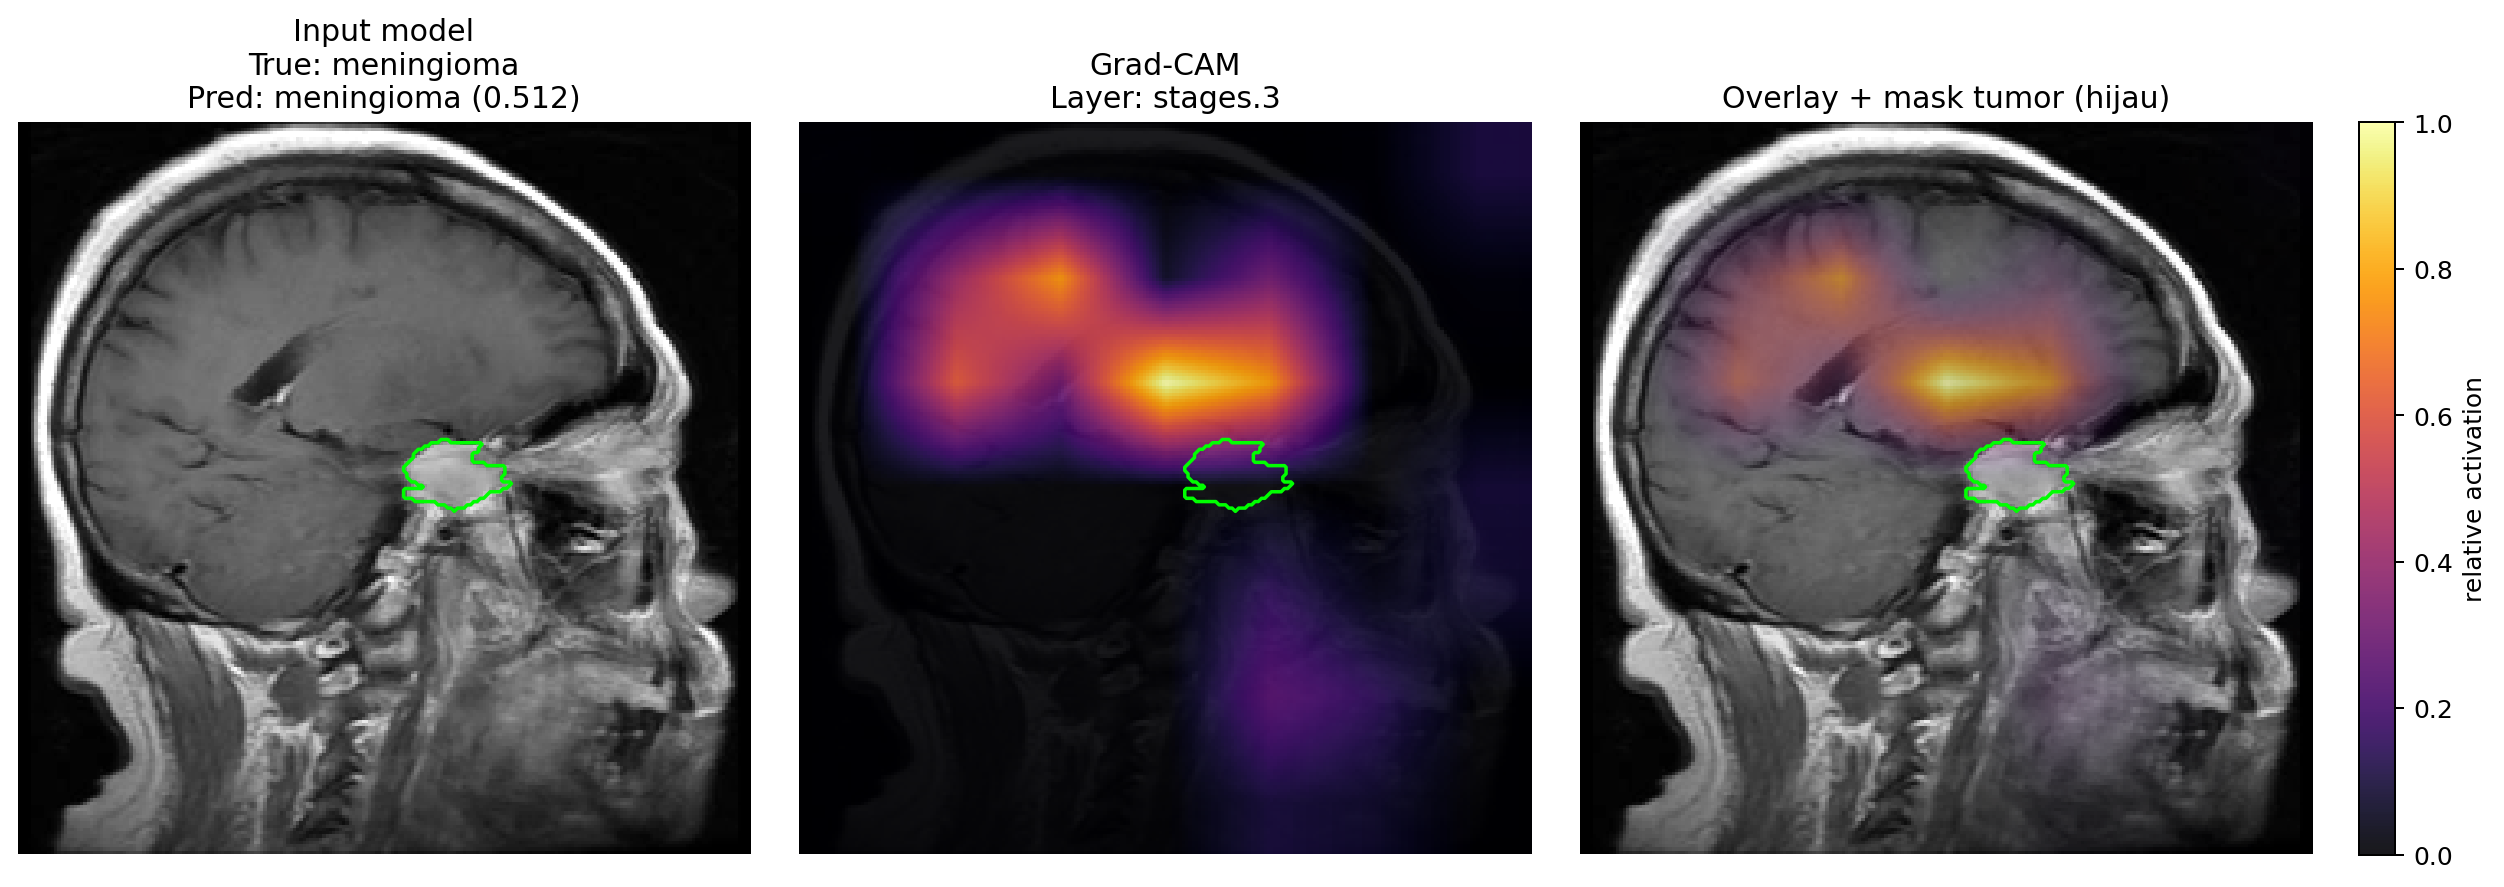
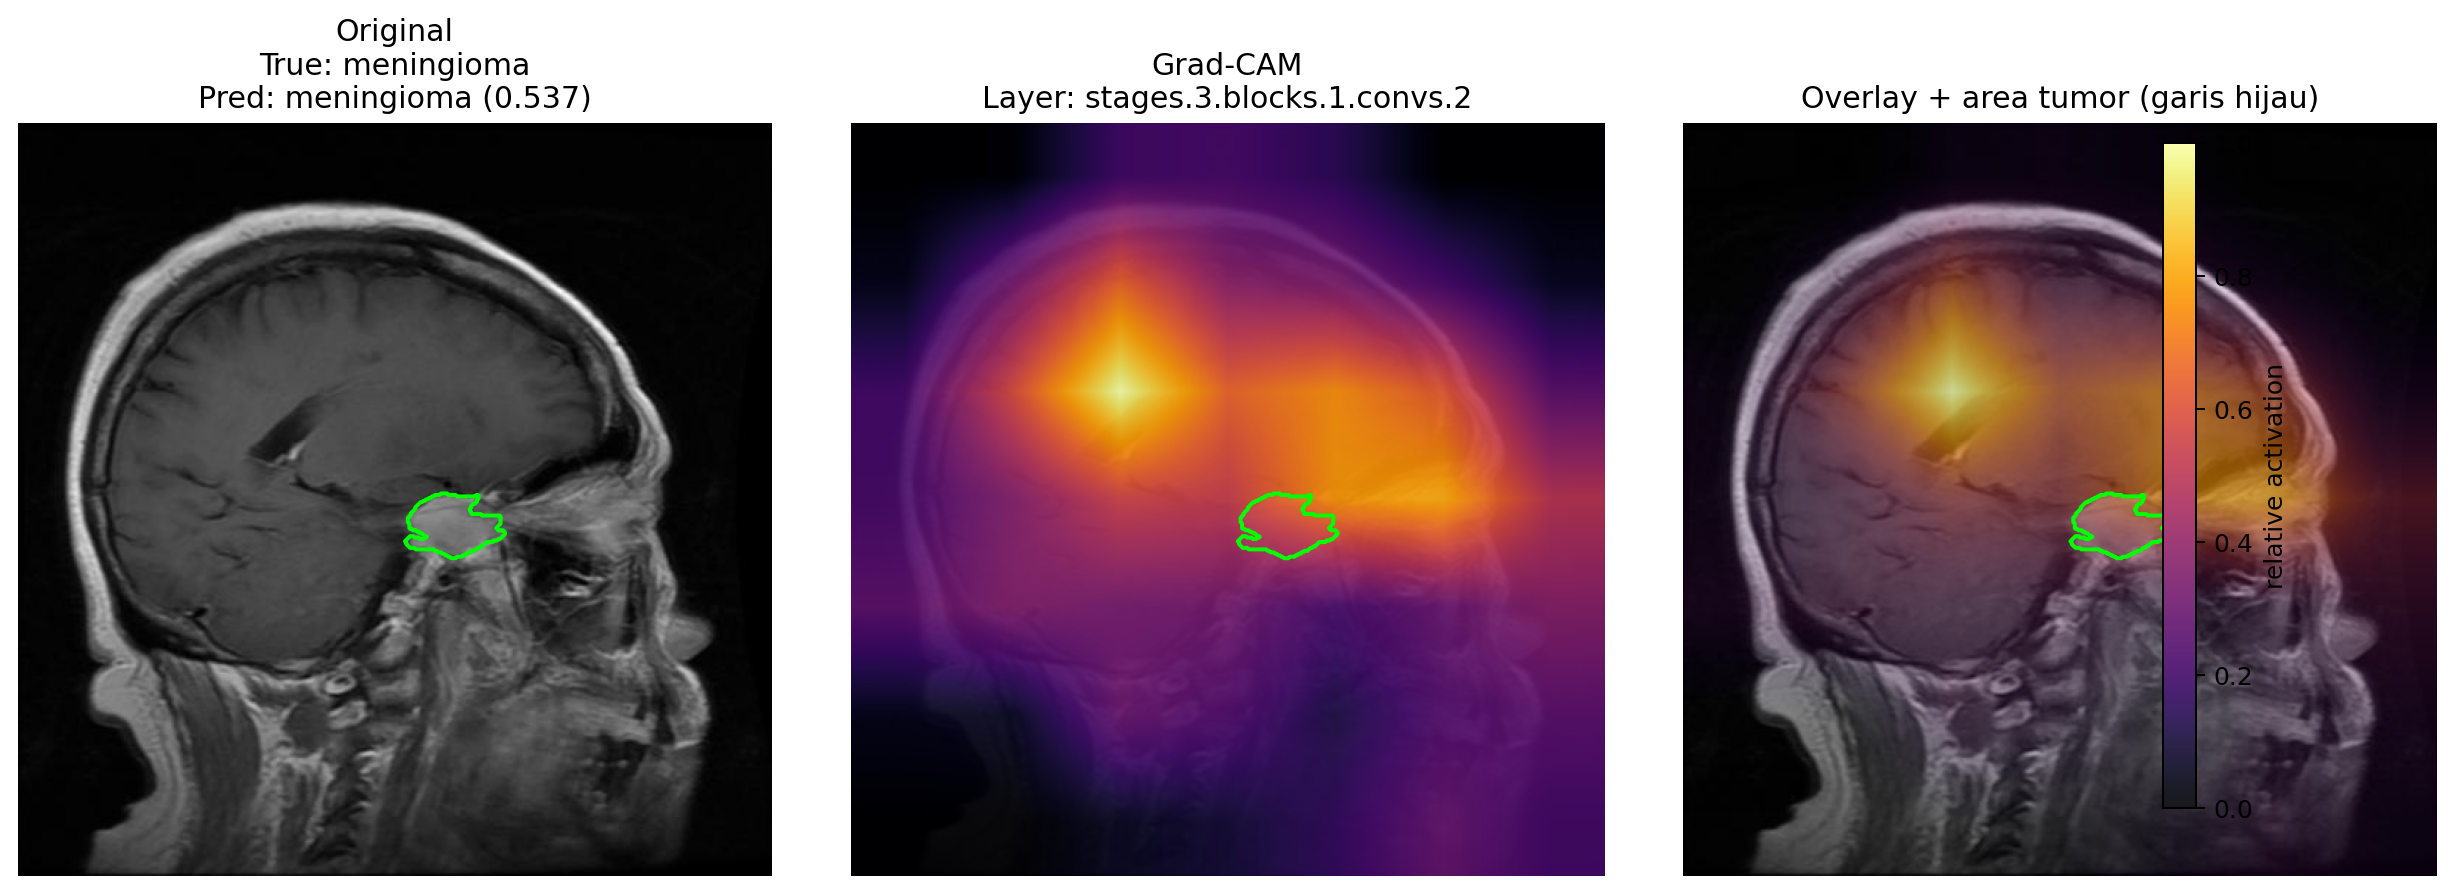
Grad-CAM TTA memakai versi asli + garis hijau tumor, tambah figur preprocessing
- scripts/gradcam_asli_garis_hijau.py: Grad-CAM identik dengan
  per_class_evaluation (sampel, layer, checkpoint 20261104_195431), ditambah
  kontur hijau dari mask segmentasi BRISC.
- results/per_class_evaluation_tta/gradcam diganti; versi Grad-CAM lama
  dipindah ke gradcam_versi_model_view.
- scripts/visualisasi_preprocessing.py: alur preprocessing 4 kelas sampai
  input training, hasil di results/preprocessing.

diff --git a/Code Program/scripts/gradcam_asli_garis_hijau.py b/Code Program/scripts/gradcam_asli_garis_hijau.py
@@ -1,0 +1,123 @@
+"""Grad-CAM asli (sama seperti results/per_class_evaluation) + garis hijau area tumor.
+
+Tidak mengubah cara Grad-CAM dihitung: sampel, layer (Conv2d terakhir), ukuran
+heatmap, dan judul panel sama dengan results/per_class_evaluation/gradcam.
+Satu-satunya tambahan adalah kontur hijau dari mask segmentasi BRISC.
+
+Jalankan (dari folder Code Program):
+  python scripts/gradcam_asli_garis_hijau.py
+"""
+from __future__ import annotations
+
+import argparse
+import sys
+from pathlib import Path
+
+import matplotlib
+
+matplotlib.use("Agg")
+import matplotlib.pyplot as plt
+import numpy as np
+import pandas as pd
+import torch
+import torch.nn as nn
+from PIL import Image
+
+ROOT = Path(__file__).resolve().parents[1]
+sys.path.insert(0, str(ROOT))
+import evaluate_per_class as epc  # noqa: E402
+
+
+def gradcam_original(model, original, transform, device):
+    """Persis seperti evaluate_per_class versi awal: Conv2d terakhir, CAM di-resize ke citra asli."""
+    layers = [(n, m) for n, m in model.named_modules() if isinstance(m, nn.Conv2d)]
+    layer_name, target = layers[-1]
+    acts, grads = {}, {}
+    fh = target.register_forward_hook(lambda m, i, o: acts.__setitem__("v", o))
+    bh = target.register_full_backward_hook(
+        lambda m, gi, go: grads.__setitem__("v", go[0] if not isinstance(go, torch.Tensor) else go)
+    )
+    try:
+        tensor = transform(original).unsqueeze(0).to(device)
+        model.eval()
+        model.zero_grad(set_to_none=True)
+        with torch.enable_grad():
+            logits = model(tensor)
+            pred = int(torch.softmax(logits, dim=1)[0].argmax())
+            logits[0, pred].backward()
+        a, g = acts["v"][0].detach(), grads["v"][0].detach()
+        cam = torch.relu((g.mean(dim=(1, 2), keepdim=True) * a).sum(dim=0, keepdim=True))[None]
+        cam = torch.nn.functional.interpolate(
+            cam, size=(original.height, original.width), mode="bilinear", align_corners=False
+        )[0, 0].cpu().numpy()
+        cam -= cam.min()
+        if cam.max() > 0:
+            cam /= cam.max()
+        return cam, layer_name
+    finally:
+        fh.remove()
+        bh.remove()
+        model.zero_grad(set_to_none=True)
+
+
+def main() -> None:
+    ap = argparse.ArgumentParser()
+    ap.add_argument("--index", type=Path, default=ROOT / "results/per_class_evaluation/gradcam/gradcam_index.csv")
+    # Checkpoint yang dipakai results/per_class_evaluation (jangan diganti agar heatmap identik)
+    ap.add_argument("--checkpoint", type=Path,
+                    default=ROOT / "hasil_edgenext/20261104_195431/01_baseline/best_model.pt")
+    ap.add_argument("--output-dir", type=Path, default=ROOT / "results/per_class_evaluation_tta/gradcam")
+    ap.add_argument("--mask-dir", type=Path,
+                    default=ROOT / "brisc2025-v6/brisc2025/segmentation_task/test/masks")
+    args = ap.parse_args()
+
+    ckpt = args.checkpoint.resolve()
+    device = torch.device("cuda" if torch.cuda.is_available() else "cpu")
+    model, config, _classes, _info = epc.load_checkpoint(ckpt, device)
+    transform = epc.make_eval_transform(int(config.get("image_size", 224)))
+    index = pd.read_csv(args.index)
+    index = index[index["status"] == "created"]
+
+    args.output_dir.mkdir(parents=True, exist_ok=True)
+    for _, row in index.iterrows():
+        with Image.open(row["image_path"]) as src:
+            original = src.convert("RGB")
+        cam, layer = gradcam_original(model, original, transform, device)
+        mask_path = args.mask_dir / f"{Path(row['image_path']).stem}.png"
+        mask = None
+        if mask_path.is_file():
+            with Image.open(mask_path) as m:
+                m = m.convert("L")
+                if m.size != original.size:
+                    m = m.resize(original.size, Image.Resampling.NEAREST)
+                mask = np.asarray(m) > 127
+
+        fig, axes = plt.subplots(1, 3, figsize=(14, 4.8))
+        axes[0].imshow(original)
+        axes[0].set_title(f"Original\nTrue: {row['true_label']}\n"
+                          f"Pred: {row['predicted_label']} ({row['confidence']:.3f})")
+        axes[1].imshow(original)
+        heat = axes[1].imshow(cam, cmap="inferno", alpha=0.9, vmin=0, vmax=1)
+        axes[1].set_title(f"Grad-CAM\nLayer: {layer}")
+        axes[2].imshow(original)
+        axes[2].imshow(cam, cmap="inferno", alpha=np.clip(cam * 0.75, 0, 0.75), vmin=0, vmax=1)
+        axes[2].set_title("Overlay" + (" + area tumor (garis hijau)" if mask is not None else ""))
+        if mask is not None:
+            for ax in axes:
+                ax.contour(mask.astype(float), levels=[0.5], colors="lime", linewidths=1.6)
+        for ax in axes:
+            ax.axis("off")
+        fig.colorbar(heat, ax=axes.ravel().tolist(), fraction=0.025, pad=0.02, label="relative activation")
+        fig.tight_layout()
+        out = args.output_dir / Path(row["output_path"]).name
+        fig.savefig(out, dpi=180, bbox_inches="tight")
+        plt.close(fig)
+        print(("OK  " if mask is not None else "OK (tanpa mask) ") + out.name)
+
+    index.drop(columns=["output_path"]).assign(
+        output_path=[str(args.output_dir / Path(p).name) for p in index["output_path"]]
+    ).to_csv(args.output_dir / "gradcam_index.csv", index=False)
+
+
+if __name__ == "__main__":
+    main()

diff --git a/Code Program/scripts/visualisasi_preprocessing.py b/Code Program/scripts/visualisasi_preprocessing.py
@@ -1,0 +1,106 @@
+"""Alur preprocessing 4 kelas (glioma, meningioma, pituitary, no_tumor) -> input training.
+
+Tiap baris = satu kelas. Kolom = tahap preprocessing yang sama persis dengan
+notebook/evaluate_per_class.py, lalu augmentasi (hanya saat training), lalu
+tensor yang masuk ke model.
+
+Jalankan (dari folder Code Program):
+  python scripts/visualisasi_preprocessing.py
+Output: results/preprocessing/alur_preprocessing_4_kelas.png (+ gambar per kelas)
+"""
+from __future__ import annotations
+
+import sys
+from pathlib import Path
+
+import matplotlib
+
+matplotlib.use("Agg")
+import matplotlib.pyplot as plt
+import numpy as np
+import torch
+from matplotlib.patches import Rectangle
+from PIL import Image, ImageOps
+from torchvision import transforms
+
+ROOT = Path(__file__).resolve().parents[1]
+sys.path.insert(0, str(ROOT))
+import evaluate_per_class as epc  # noqa: E402
+
+TRAIN = ROOT / "brisc2025-v6/brisc2025/classification_task/train"
+OUT = ROOT / "results/preprocessing"
+CLASSES = ["glioma", "meningioma", "pituitary", "no_tumor"]
+SIZE = 224
+SEED = 7
+
+
+def pick(cls: str) -> Path:
+    files = sorted((TRAIN / cls).glob("*.jpg"))
+    return files[len(files) // 3]  # satu contoh tetap (reproducible)
+
+
+def augment(img: Image.Image) -> Image.Image:
+    """Contoh augmentasi training (parameter sama dengan Cell 2 notebook)."""
+    torch.manual_seed(SEED)
+    tf = transforms.Compose([
+        transforms.RandomHorizontalFlip(p=1.0),
+        transforms.RandomAffine(degrees=10, translate=(0.05, 0.05), scale=(0.9, 1.1), fill=0),
+        transforms.ColorJitter(brightness=0.2, contrast=0.25),
+    ])
+    return tf(img)
+
+
+def steps(path: Path):
+    original = Image.open(path).convert("RGB")
+    box = epc.brain_crop_box(original)
+    cropped = original.crop(box) if box else original
+    padded = epc.crop_brain_pad_square(original)
+    resized = padded.resize((SIZE, SIZE), Image.Resampling.LANCZOS)
+    normalized = epc.preprocess_brain_image(original, SIZE)
+    aug = augment(normalized)
+    tensor = epc.make_eval_transform(SIZE)(original)
+    return original, box, cropped, padded, resized, normalized, aug, tensor
+
+
+def main() -> None:
+    OUT.mkdir(parents=True, exist_ok=True)
+    titles = ["1. Citra asli", "2. Crop area otak", "3. Pad jadi persegi",
+              f"4. Resize {SIZE}x{SIZE}", "5. Normalisasi\npersentil 1-99",
+              "6. Augmentasi\n(hanya training)", "7. Tensor input\n(ImageNet norm)"]
+    fig, axes = plt.subplots(len(CLASSES), len(titles), figsize=(2.6 * len(titles), 2.8 * len(CLASSES)),
+                             layout="constrained")
+    for r, cls in enumerate(CLASSES):
+        path = pick(cls)
+        original, box, cropped, padded, resized, normalized, aug, tensor = steps(path)
+        # tensor -> tampilan (min-max per gambar, hanya untuk visualisasi)
+        t = tensor[0].numpy()
+        t = (t - t.min()) / (t.max() - t.min() + 1e-8)
+        panels = [original, cropped, padded, resized, normalized, aug, t]
+        for c, panel in enumerate(panels):
+            ax = axes[r, c]
+            ax.imshow(panel, cmap="gray" if c == 6 else None)
+            ax.set_xticks([]); ax.set_yticks([])
+            if r == 0:
+                ax.set_title(titles[c], fontsize=10)
+            if c == 0 and box:
+                ax.add_patch(Rectangle((box[0], box[1]), box[2] - box[0], box[3] - box[1],
+                                       fill=False, ec="lime", lw=1.6))
+            if c == 0:
+                ax.set_ylabel(f"{cls}\n{panel.size[0]}x{panel.size[1]}", fontsize=11, fontweight="bold")
+            elif c in (1, 2):
+                ax.set_xlabel(f"{panel.size[0]}x{panel.size[1]}", fontsize=8)
+        # gambar per kelas
+        f2, a2 = plt.subplots(1, 6, figsize=(15, 2.9), layout="constrained")
+        for c, (panel, ttl) in enumerate(zip(panels[:6], titles[:6])):
+            a2[c].imshow(panel); a2[c].set_title(ttl, fontsize=9); a2[c].axis("off")
+        f2.suptitle(f"Preprocessing kelas {cls}  ({path.name})")
+        f2.savefig(OUT / f"preprocessing_{cls}.png", dpi=150)
+        plt.close(f2)
+        print(f"OK {cls}: {path.name}")
+    fig.suptitle("Alur preprocessing 4 kelas -> hasil dipakai pada tahap training", fontsize=14)
+    fig.savefig(OUT / "alur_preprocessing_4_kelas.png", dpi=150)
+    plt.close(fig)
+
+
+if __name__ == "__main__":
+    main()
